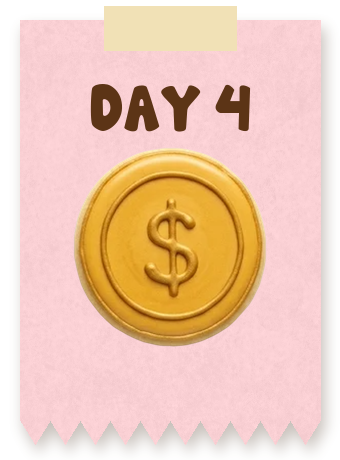
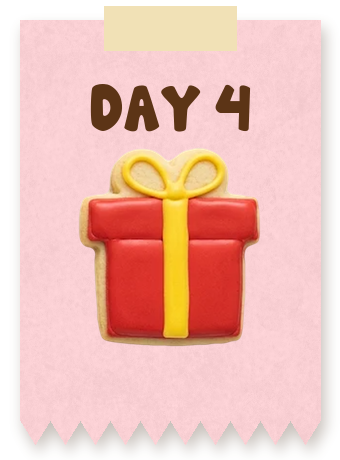
Daily Treats: a four-day row (one note fewer) and free space left and right of the card (owner, 19 Nov)

Changed region(s): [[0.2059, 0.3043, 0.7941, 0.7609]]

diff --git a/Assets/Scripts/DailyTreats/DailyTreats.cs b/Assets/Scripts/DailyTreats/DailyTreats.cs
@@ -6,7 +6,8 @@ using UnityEngine.UI;
 
 /// <summary>
 /// Daily Treats: the first time the game is opened each day, a popup on the main menu gives +50 coins.
-/// Five days in a row also gives a +100 surprise on day 5, then the row starts again. Missing a day
+/// Four days in a row also gives a +100 surprise on the last day, then the row starts again (four since 19 November
+/// 2026, owner: "Change the day streak to 4 days instead of 5 so we have one less sticker"). Missing a day
 /// resets the row to day 1. Uses the phone's local date; a clock moved back gives nothing.
 /// The coins wait (PlayerPrefs) and are paid when the player taps Continue or starts a New game.
 /// Layout follows the approved mock (Store/artkit/checkin2.py) on a 1080x1920 canvas; the pieces are
@@ -15,18 +16,19 @@ using UnityEngine.UI;
 public class DailyTreats : MonoBehaviour
 {
     public const string LastKey = "ftc.daily.last";       // yyyy-MM-dd of the last collect
-    public const string StreakKey = "ftc.daily.streak";   // days collected in the current row, 1..5
+    public const string StreakKey = "ftc.daily.streak";   // days collected in the current row, 1..RowDays
     public const string PendingKey = "ftc.daily.pending"; // coins collected with no game running
 
     public const int DailyCoins = 50;
-    public const int Day5Bonus = 100;
+    public const int RowDays = 4;       // the row's length; its last day gives the gift
+    public const int Day5Bonus = 100;   // the last day's surprise (the name is from the five-day row)
 
     public Sprite boardSprite;   // Assets/Images/board.png
     public Sprite collectSprite; // Assets/Images/collect.png
     public Sprite starSprite;    // Assets/Images/star 1.png
 
     private GameObject root;
-    private int dayToday;        // 1..5
+    private int dayToday;        // 1..RowDays
     private bool collecting;
 
     private DateTime dueDate;    // the local date the popup opened on
@@ -47,7 +49,7 @@ public class DailyTreats : MonoBehaviour
         return s != null && s.isActive && (s.tutorialSeen || s.levelsCompleted >= 1);
     }
 
-    /// <summary>True when today's treat has not been collected; day is the row day (1..5) it would be.</summary>
+    /// <summary>True when today's treat has not been collected; day is the row day (1..RowDays) it would be.</summary>
     public static bool DueDay(out int day)
     {
         day = 1;
@@ -57,7 +59,7 @@ public class DailyTreats : MonoBehaviour
         {
             if (lastDate >= today) return false; // already collected today, or the clock was moved back
             var streak = PlayerPrefs.GetInt(StreakKey, 0);
-            if (lastDate == today.AddDays(-1) && streak >= 1 && streak < 5) day = streak + 1;
+            if (lastDate == today.AddDays(-1) && streak >= 1 && streak < RowDays) day = streak + 1;
         }
         return true;
     }
@@ -75,7 +77,7 @@ public class DailyTreats : MonoBehaviour
     {
         if (root != null) Destroy(root);
         collecting = false;
-        dayToday = Mathf.Clamp(day, 1, 5);
+        dayToday = Mathf.Clamp(day, 1, RowDays);
         Show(dayToday);
     }
 
@@ -114,69 +116,74 @@ public class DailyTreats : MonoBehaviour
     /// 2 with their changes: "Remove that red sticker, only keep the texts, style the text like the stamp card ... Change
     /// the shape of this card to be square, reposition things inside it, the dot line is the edge, add some padding
     /// between the edge and content. Also add some space around the close button. Don't show the coin amount on the next
-    /// few days, only show icon"). Pieces: Store/ui/daily_treats_2026-11-19/build.py. The square mint card is 1060 wide;
-    /// its dotted line runs at +-458 (top: 347), and everything keeps 36 inside it.
+    /// few days, only show icon"; then "Leave margin between left and right of screen edge and the daily treat panel.
+    /// Change the day streak to 4 days instead of 5 so we have one less sticker"). Pieces:
+    /// Store/ui/daily_treats_2026-11-19/build.py. A tall phone's canvas is only about 977 wide, so the square card is 890
+    /// (846 painted): about 65 free on each side. Its dotted line runs at +-385 (top: 291); everything keeps 30 inside it.
     private void ShowOnPaper(RectTransform canvasRect, Sprite paper, int day)
     {
-        RewardY = -175f; RewardScale = 0.8f; ButtonY = -342f; ButtonScale = 0.88f; ClosePos = new Vector2(384f, 273f);
+        RewardY = -165f; RewardScale = 0.66f; ButtonY = -292f; ButtonScale = 0.78f; ClosePos = new Vector2(322f, 229f);
         AmountTint = new Color(0.90f, 0.56f, 0.24f);   // the cream "+50" letters, orange on the pale card
         var board = NewImage("Board", canvasRect, paper, Color.white);
-        Place(board.rectTransform, 0f, 0f, 1060f, 1060f);
+        Place(board.rectTransform, 0f, 0f, 890f, 890f);
 
         // the title: plain letters with a row of dots under them
         var titleGo = new GameObject("Title", typeof(RectTransform)); titleGo.transform.SetParent(canvasRect, false);
         var title = titleGo.AddComponent<TMPro.TextMeshProUGUI>();
         var font = Resources.Load<TMPro.TMP_FontAsset>("Fonts & Materials/beachday SDF"); if (font != null) title.font = font;
         var plain = Resources.Load<Material>("Fonts & Materials/beachday SDF - Plain"); if (plain != null) title.fontSharedMaterial = plain;
-        title.text = "DAILY TREATS"; title.fontSize = 84f; title.color = new Color(0.36f, 0.20f, 0.10f); title.alignment = TMPro.TextAlignmentOptions.Center;
+        title.text = "DAILY TREATS"; title.fontSize = 68f; title.color = new Color(0.36f, 0.20f, 0.10f); title.alignment = TMPro.TextAlignmentOptions.Center;
         title.enableWordWrapping = false; title.raycastTarget = false;
-        Place(title.rectTransform, -30f, 276f, 640f, 110f);
+        Place(title.rectTransform, -25f, 226f, 540f, 92f);
         var dots = NewImage("TitleDots", canvasRect, Load("title_dots"), Color.white);
-        Place(dots.rectTransform, -30f, 222f, 500f, 12f);
+        Place(dots.rectTransform, -25f, 182f, 410f, 10f);
 
-        // five notes, each a little tilted; today's is bigger and shows what it gives, earlier days are pale and ticked,
-        // later days show only their picture
+        // the row's notes, each a little tilted; today's is bigger and shows what it gives, earlier days are pale and
+        // ticked, later days show only their picture
         float[] tilt = { 3f, -5f, 2f, -3f, 4f };
-        for (var i = 0; i < 5; i++)
+        const float step = 178f;
+        for (var i = 0; i < RowDays; i++)
         {
-            var d = i + 1; var x = -336f + i * 168f; var today = d == day;
+            var d = i + 1; var x = -step * (RowDays - 1) / 2f + i * step; var today = d == day;
             var note = NewImage("Note" + d, canvasRect, Load(today ? "note" + d + "_today" : "note" + d), Color.white);
             var k = today ? 1.16f : 1f;
-            Place(note.rectTransform, x, today ? 104f : 92f, 150f * k, 203f * k);
-            note.rectTransform.localRotation = Quaternion.Euler(0f, 0f, tilt[i]);
+            Place(note.rectTransform, x, today ? 54f : 46f, 140f * k, 190f * k);
+            note.rectTransform.localRotation = Quaternion.Euler(0f, 0f, tilt[i % tilt.Length]);
             if (d < day)
             {
                 note.color = new Color(1f, 1f, 1f, 0.55f);
                 var tick = NewImage("Tick" + d, canvasRect, Load("tick"), Color.white);
-                Place(tick.rectTransform, x, 80f, 88f, 88f);
+                Place(tick.rectTransform, x, 34f, 82f, 82f);
             }
             else if (today) note.transform.SetAsLastSibling();
         }
 
         // the dotted trail to the star, filled as far as the row has come
         var trail = NewImage("Trail", canvasRect, Load("trail"), Color.white); trail.preserveAspect = false;
-        Place(trail.rectTransform, -34f, -62f, 700f, 22f);
+        Place(trail.rectTransform, -30f, -88f, 600f, 19f);
         var fill = NewImage("TrailFill", canvasRect, Load("trail_fill"), Color.white); fill.preserveAspect = false;
-        Place(fill.rectTransform, -34f, -62f, 700f, 22f);
-        fill.type = Image.Type.Filled; fill.fillMethod = Image.FillMethod.Horizontal; fill.fillAmount = (day - 1) / 5f;
+        Place(fill.rectTransform, -30f, -88f, 600f, 19f);
+        fill.type = Image.Type.Filled; fill.fillMethod = Image.FillMethod.Horizontal; fill.fillAmount = (day - 1) / (float)RowDays;
         var star = NewImage("Star", canvasRect, starSprite, Color.white);
-        Place(star.rectTransform, 368f, -60f, 92f, 92f);
+        Place(star.rectTransform, 314f, -86f, 80f, 80f);
 
-        // today's reward: hidden until Collect is tapped (the gift box shows at once on day 5)
+        // today's reward: hidden until Collect is tapped (the gift box shows at once on the last day)
         sparkles = NewImage("Sparkles", canvasRect, Load("sparkles"), Color.white);
         Place(sparkles.rectTransform, 0f, RewardY, 700f * RewardScale, 240f * RewardScale);
         sparkles.gameObject.SetActive(false);
-        if (day == 5)
+        if (day == RowDays)
         {
             giftImage = NewImage("Gift", canvasRect, Load("gift_big"), Color.white);
-            Place(giftImage.rectTransform, 0f, RewardY + 6f, 150f, 176f);
+            Place(giftImage.rectTransform, 0f, RewardY + 4f, 124f, 146f);
         }
-        // the coin cookie and the amount in orange letters, put together here (the old baked picture was made for the wood)
+        // the coin cookie and the amount in orange letters, put together here (the old baked picture was made for the
+        // wood); laid out for a scale of 0.8 and shrunk as a whole
         rewardImage = NewImage("Reward", canvasRect, null, new Color(1f, 1f, 1f, 0f));
-        Place(rewardImage.rectTransform, 0f, RewardY, 520f * RewardScale, 180f * RewardScale);
+        Place(rewardImage.rectTransform, 0f, RewardY, 416f, 144f);
+        rewardImage.rectTransform.localScale = Vector3.one * (RewardScale / 0.8f);
         var rc = NewImage("Coin", rewardImage.rectTransform, Load("glyph_coin"), Color.white);
         Place(rc.rectTransform, -160f, 0f, 120f, 120f);
-        var amountText = "+" + (day == 5 ? DailyCoins + Day5Bonus : DailyCoins); var gx = -70f;
+        var amountText = "+" + (day == RowDays ? DailyCoins + Day5Bonus : DailyCoins); var gx = -70f;
         foreach (var ch in amountText)
         {
             var gs = Load(ch == '+' ? "glyph_plus" : "glyph_" + ch); if (gs == null) continue;
@@ -187,7 +194,7 @@ public class DailyTreats : MonoBehaviour
         rewardImage.gameObject.SetActive(false);
 
         collectButton = NewImage("Collect", canvasRect, collectSprite, Color.white);
-        Place(collectButton.rectTransform, 14f, ButtonY, 548f * ButtonScale, 305f * ButtonScale);
+        Place(collectButton.rectTransform, 12f, ButtonY, 548f * ButtonScale, 305f * ButtonScale);
         var button = collectButton.gameObject.AddComponent<Button>();
         button.transition = Selectable.Transition.None;
         button.onClick.AddListener(Collect);
@@ -206,16 +213,16 @@ public class DailyTreats : MonoBehaviour
         Place(ribbon.rectTransform, 0f, 560f, 800f, 220f);
 
         // Five day cards; today glows, earlier days are ticked
-        for (var i = 0; i < 5; i++)
+        for (var i = 0; i < RowDays; i++)
         {
             var d = i + 1;
-            var x = -348f + i * 174f;
+            var x = -87f * (RowDays - 1) + i * 174f;
             if (d == day)
             {
                 var glow = NewImage("Glow" + d, canvasRect, Load("glow"), Color.white);
                 Place(glow.rectTransform, x, 245f, 226f, 298f);
             }
-            var card = NewImage("Card" + d, canvasRect, Load("card" + d), Color.white);
+            var card = NewImage("Card" + d, canvasRect, Load("card" + (d == RowDays ? 5 : d)), Color.white);
             Place(card.rectTransform, x, 245f, 158f, 230f);
             if (d < day)
             {
@@ -233,7 +240,7 @@ public class DailyTreats : MonoBehaviour
         Place(barFill.rectTransform, 0f, 10f, 708f, 28f);
         barFill.type = Image.Type.Filled;
         barFill.fillMethod = Image.FillMethod.Horizontal;
-        barFill.fillAmount = (day - 1) / 5f;
+        barFill.fillAmount = (day - 1) / (float)RowDays;
         var star = NewImage("Star", canvasRect, starSprite, Color.white);
         Place(star.rectTransform, 368f, 12f, 96f, 96f);
 
@@ -242,7 +249,7 @@ public class DailyTreats : MonoBehaviour
         sparkles = NewImage("Sparkles", canvasRect, Load("sparkles"), Color.white);
         Place(sparkles.rectTransform, 0f, -190f, 700f, 240f);
         sparkles.gameObject.SetActive(false);
-        if (day == 5)
+        if (day == RowDays)
         {
             giftImage = NewImage("Gift", canvasRect, Load("gift_big"), Color.white);
             Place(giftImage.rectTransform, 0f, -170f, 220f, 260f);
@@ -270,7 +277,7 @@ public class DailyTreats : MonoBehaviour
         if (collecting) return;
         collecting = true;
         var day = dayToday;
-        var amount = DailyCoins + (day == 5 ? Day5Bonus : 0);
+        var amount = DailyCoins + (day == RowDays ? Day5Bonus : 0);
 
         // Always held until the player taps Continue or New, which both pay it (paying into the running game here
         // lost it when the player then started a new game)
@@ -280,7 +287,7 @@ public class DailyTreats : MonoBehaviour
         PlayerPrefs.SetInt(StreakKey, day);
         PlayerPrefs.Save();
 
-        StartCoroutine(CloseAfterReveal(day == 5));
+        StartCoroutine(CloseAfterReveal(day == RowDays));
     }
 
     private IEnumerator CloseAfterReveal(bool gift)
